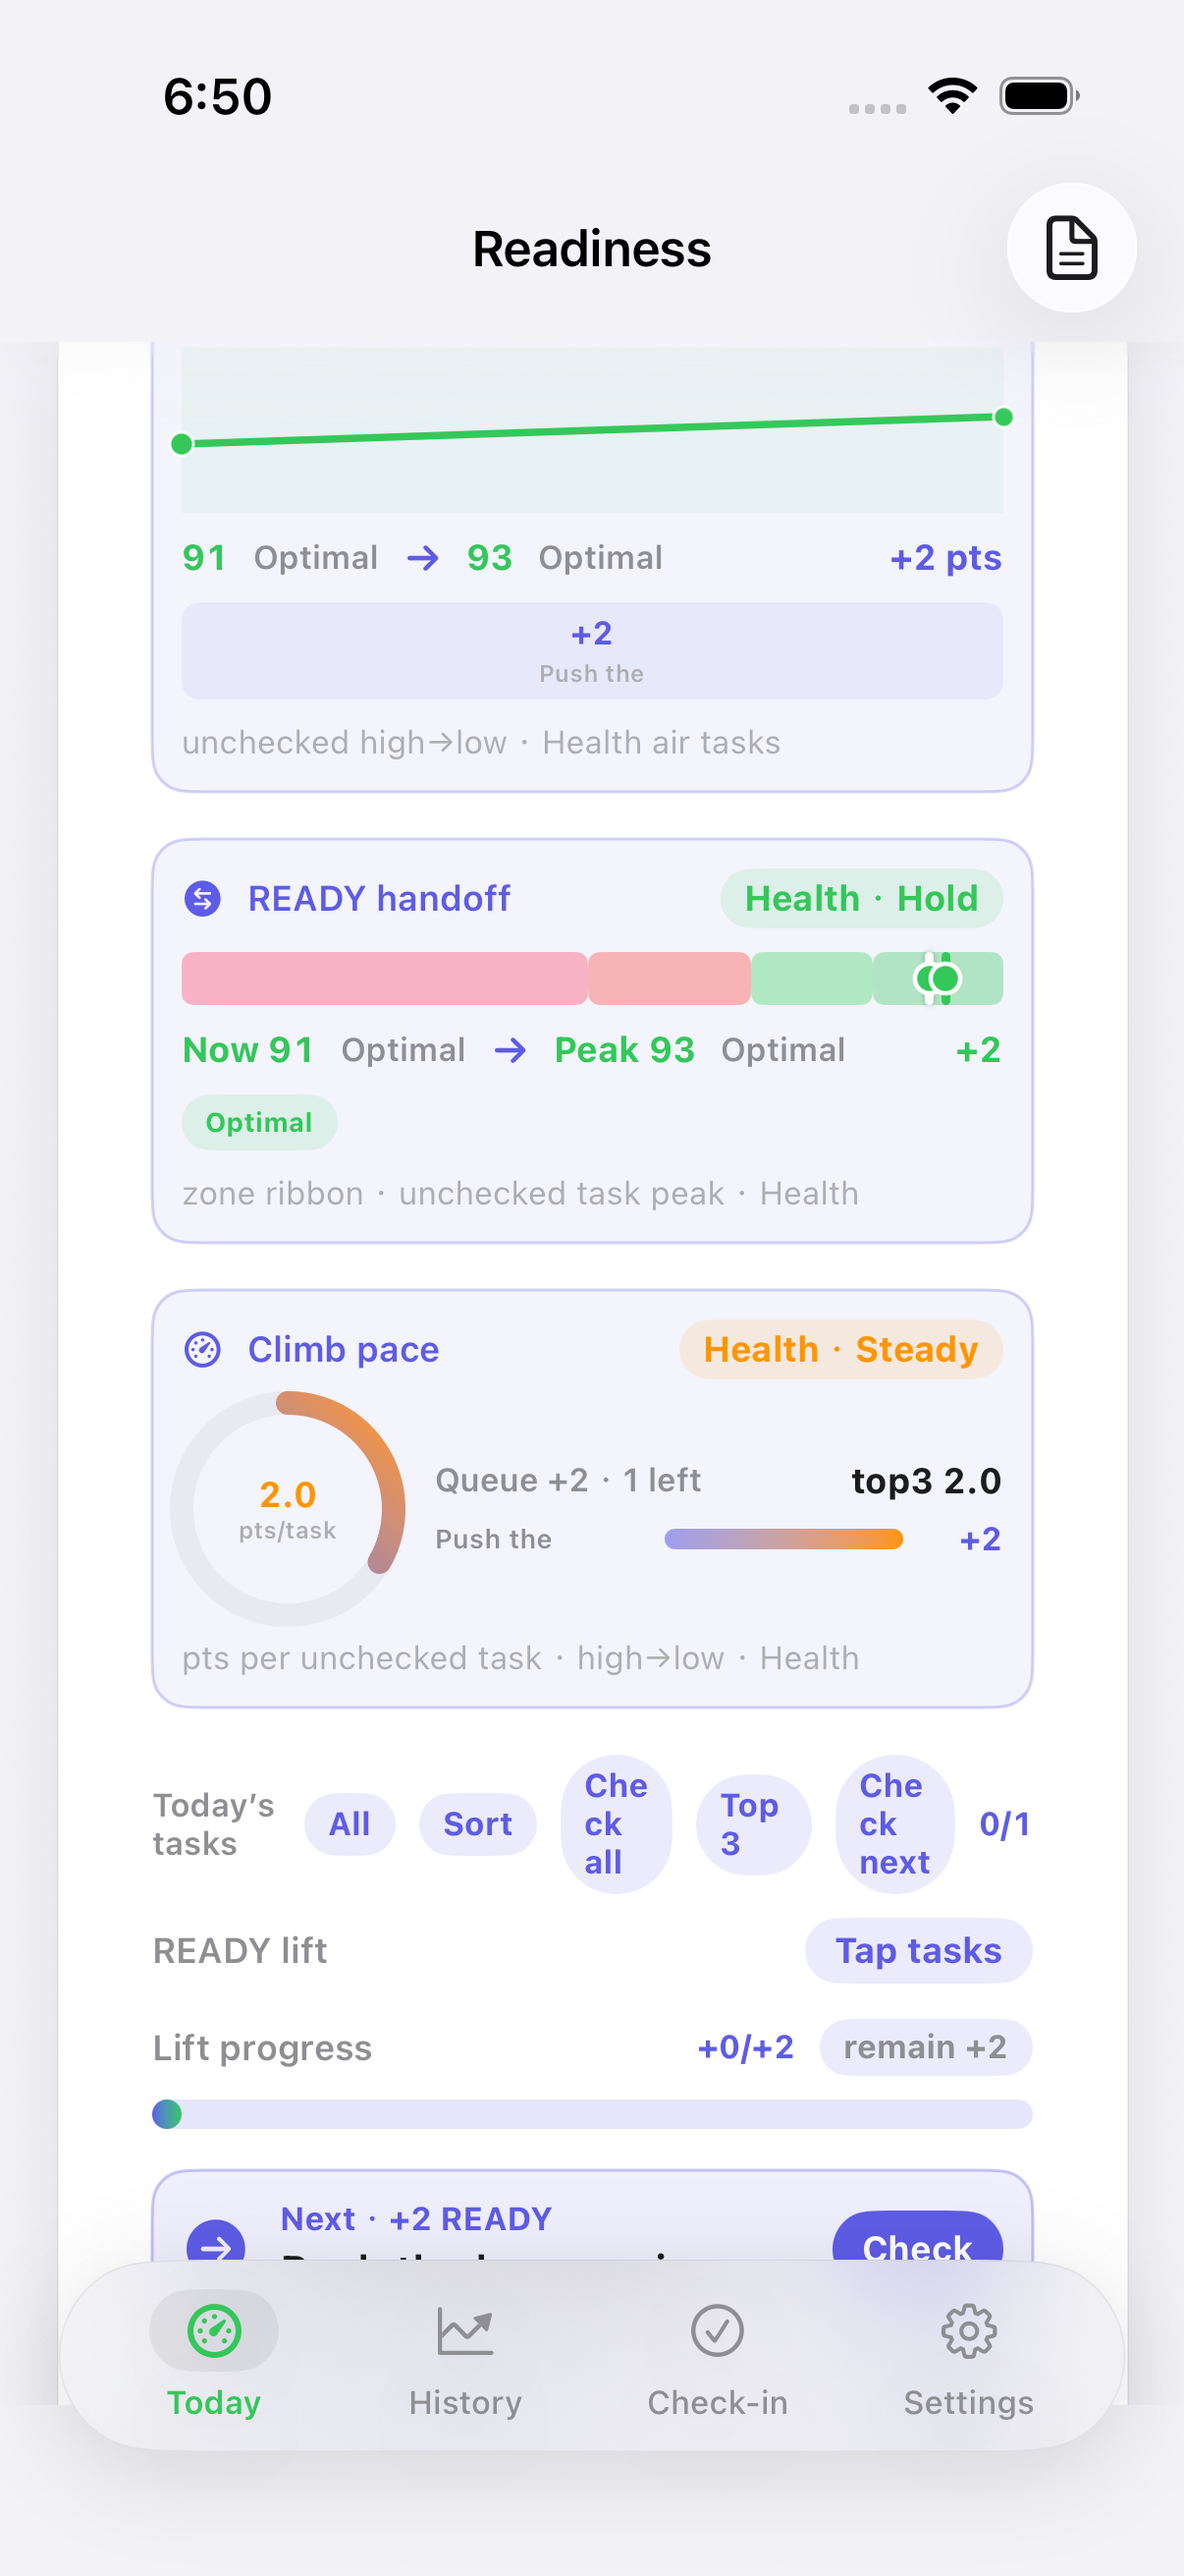
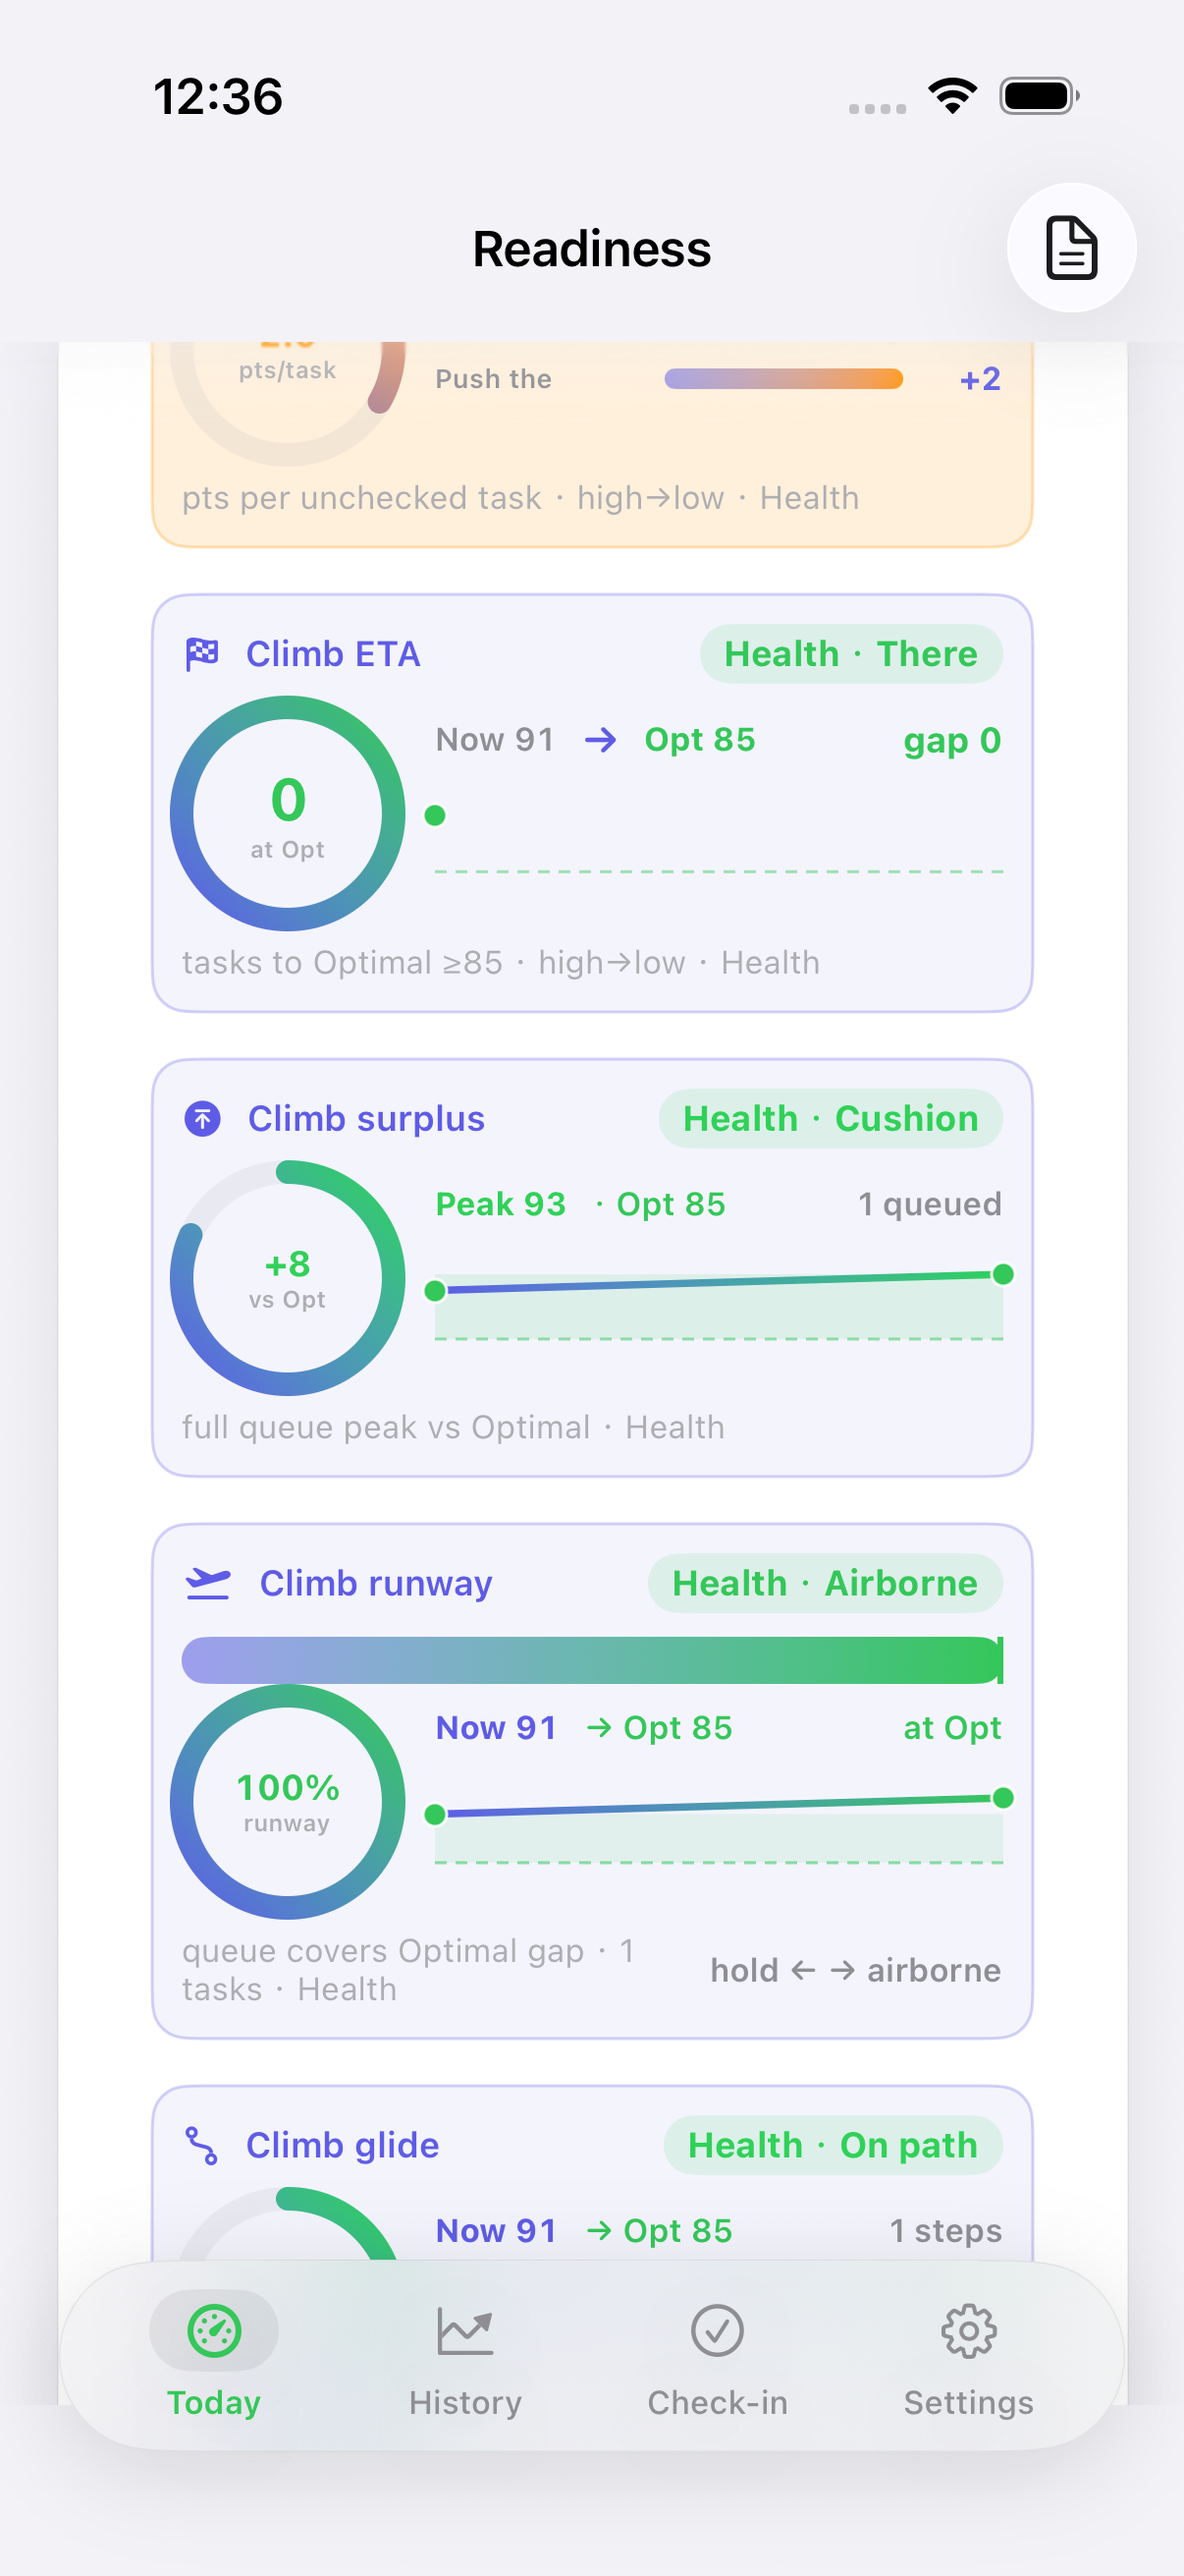
Honest #745: Simulator climb pace (WHOOP wells) (#775)
Restyle the existing Simulator climb pace dial (`sim.load.ready.climb.pace`, Honest #617) with WHOOP wells.

- Idle (Crawl / pace < 1.25): ghost/hairline 8%/28%
- Active (Steady / pace >= 1.25): 14% fill + 28% hairline (caution)
- Brisk (pace >= 2.5): 14% fill + 28% hairline (good)
- Sprint (pace >= 4): 14% fill + 28% hairline (optimal); no new SurfaceID; no formula change

Proof: `testReadinessLoadSimulatorSurface` 765.994s, 0 failures; `.audit/verify-simulator-climb-pace.png`
model=deepseek-flash (mechanical pattern-copy of #744 wells)

Changed region(s): [[0.1227, 0.1236, 0.8897, 0.8959], [0.1227, 0.0309, 0.2454, 0.0618]]

diff --git a/ReadinessTracker/Views/WhoopFeatures/ReadinessLoadSimulatorCard.swift b/ReadinessTracker/Views/WhoopFeatures/ReadinessLoadSimulatorCard.swift
@@ -3814,7 +3814,7 @@ struct ReadinessLoadSimulatorCard: View {
         .animation(.easeInOut(duration: 0.25), value: projectedCoupled)
     }
 
-    /// Honest #617: READY climb pace dial — pts per unchecked task (Fitbit/GH richer sim graphics).
+    /// Honest #617 / #745: READY climb pace dial — pts per unchecked task (Fitbit/GH richer sim graphics; WHOOP wells).
     @ViewBuilder
     private var readyClimbPaceDial: some View {
         let pending = tasks.filter { !completedTaskIDs.contains($0.id) }.sorted { $0.readyDelta > $1.readyDelta }
@@ -3843,6 +3843,8 @@ struct ReadinessLoadSimulatorCard: View {
         } else {
             verb = "Crawl"; tone = RTColor.warning
         }
+        let climbPaceIsActive = (verb != "Crawl")
+        let wellTone: Color = climbPaceIsActive ? tone : RTColor.secondaryText
         let paceDisp = String(format: "%.1f", pace)
         let topDisp = String(format: "%.1f", topPace)
         let maxBar = max(1.0, pending.map { Double($0.readyDelta) }.max() ?? 1)
@@ -3927,10 +3929,10 @@ struct ReadinessLoadSimulatorCard: View {
                 .foregroundStyle(RTColor.tertiaryText)
         }
         .padding(10)
-        .background(accent.opacity(0.07), in: RoundedRectangle(cornerRadius: 12, style: .continuous))
+        .background(wellTone.opacity(climbPaceIsActive ? 0.14 : 0.08), in: RoundedRectangle(cornerRadius: 12, style: .continuous))
         .overlay(
             RoundedRectangle(cornerRadius: 12, style: .continuous)
-                .stroke(accent.opacity(0.28), lineWidth: 1)
+                .stroke(wellTone.opacity(0.28), lineWidth: 1)
         )
         .accessibilityIdentifier(SurfaceID.readinessSimulatorClimbPace)
         .accessibilityLabel("Climb pace \(verb) \(paceDisp) pts per task")

diff --git a/ReadinessTracker/Design/Theme.swift b/ReadinessTracker/Design/Theme.swift
@@ -409,7 +409,7 @@ enum SurfaceID {
     static let readinessSimulatorTaskEfficiency = "sim.load.tasks.efficiency"  // Honest #611 / #742
     static let readinessSimulatorReadyClimb = "sim.load.ready.climb"  // Honest #613 / #743
     static let readinessSimulatorReadyHandoff = "sim.load.ready.handoff"  // Honest #615 / #744
-    static let readinessSimulatorClimbPace = "sim.load.ready.climb.pace"  // Honest #617
+    static let readinessSimulatorClimbPace = "sim.load.ready.climb.pace"  // Honest #617 / #745
     static let readinessSimulatorClimbETA = "sim.load.ready.climb.eta"  // Honest #619
     static let readinessSimulatorClimbSurplus = "sim.load.ready.climb.surplus"  // Honest #621
     static let readinessSimulatorClimbRunway = "sim.load.ready.climb.runway"  // Honest #623

diff --git a/ReadinessTrackerUITests/SurfacesUITests.swift b/ReadinessTrackerUITests/SurfacesUITests.swift
@@ -10861,7 +10861,7 @@ final class SurfacesUITests: XCTestCase {
         }
         saveShot("verify-simulator-ready-handoff.png")
 
-        // Honest #617: READY climb pace
+        // Honest #617 / #745: READY climb pace (WHOOP wells)
         let climbPace = app.descendants(matching: .any)["sim.load.ready.climb.pace"].firstMatch
         XCTAssertTrue(climbPace.waitForExistence(timeout: 5)
                       || app.descendants(matching: .any)["sim.load.ready.handoff"].firstMatch.exists

diff --git a/.audit/decision-log-2026-11-04.md b/.audit/decision-log-2026-11-04.md
@@ -306,3 +306,9 @@
 
 | 00:16 HKT | #744 Simulator READY handoff | prove | UITest suite green /tmp/RT-DD744 (774.177s, 0 failures; xcresult wall 787.654s); model=deepseek-flash |
 | 00:16 HKT | #744 Simulator READY handoff | land | proof PNG + receipt; SID sim.load.ready.handoff; PR squash next; model=deepseek-flash |
+
+| 00:23 HKT | Honest #745 Simulator climb pace | model=deepseek-flash | restyle existing sim.load.ready.climb.pace after READY handoff #744; WHOOP ghost/active/Sprint wells; mechanical pattern-copy of #744 wells applied locally (no separate model iterate needed) | mid-ship |
+| 00:23 HKT | Honest #745 Simulator climb pace | prove | started UITest /tmp/RT-DD745; model=deepseek-flash | mid-ship |
+
+| 00:42 HKT | #745 Simulator climb pace | prove | UITest suite green /tmp/RT-DD745 (765.994s, 0 failures; observer 777.873s); model=deepseek-flash |
+| 01:01 HKT | #745 Simulator climb pace | land | proof PNG + receipt; SID sim.load.ready.climb.pace; PR squash next; model=deepseek-flash |

diff --git a/.audit/sim-climb-pace.md b/.audit/sim-climb-pace.md
@@ -1,5 +1,6 @@
-# Honest #617: Simulator climb pace
+# Honest #617 / #745: Simulator climb pace (WHOOP wells)
 
 pts/task dial + ranked lift bars (Sprint/Brisk/Steady/Crawl).
+Idle (Crawl / pace < 1.25) = ghost/hairline 8/28; active (Steady / pace >= 1.25) = 14 fill + 28 hairline (caution); Brisk (pace >= 2.5) = 14 fill + 28 hairline (good); Sprint (pace >= 4) = 14 fill + 28 hairline (optimal).
 SurfaceID: `sim.load.ready.climb.pace`
 Proof: `.audit/verify-simulator-climb-pace.png`

diff --git a/.cursor/skills/verify-readiness-tracker/features/sim-climb-pace.md b/.cursor/skills/verify-readiness-tracker/features/sim-climb-pace.md
@@ -1,5 +1,6 @@
-# Honest #617: Simulator climb pace
+# Honest #617 / #745: Simulator climb pace (WHOOP wells)
 
 pts/task dial + ranked lift bars (Sprint/Brisk/Steady/Crawl).
+Idle (Crawl / pace < 1.25) = ghost/hairline 8/28; active (Steady / pace >= 1.25) = 14 fill + 28 hairline (caution); Brisk (pace >= 2.5) = 14 fill + 28 hairline (good); Sprint (pace >= 4) = 14 fill + 28 hairline (optimal).
 SurfaceID: `sim.load.ready.climb.pace`
 Proof: `.audit/verify-simulator-climb-pace.png`
